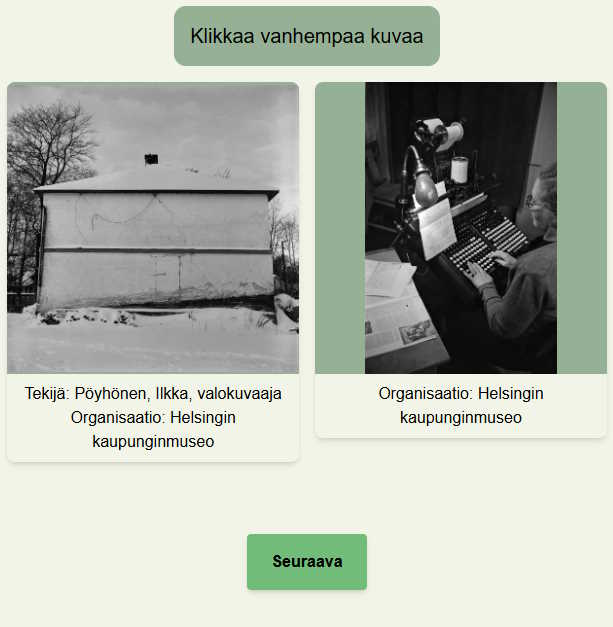
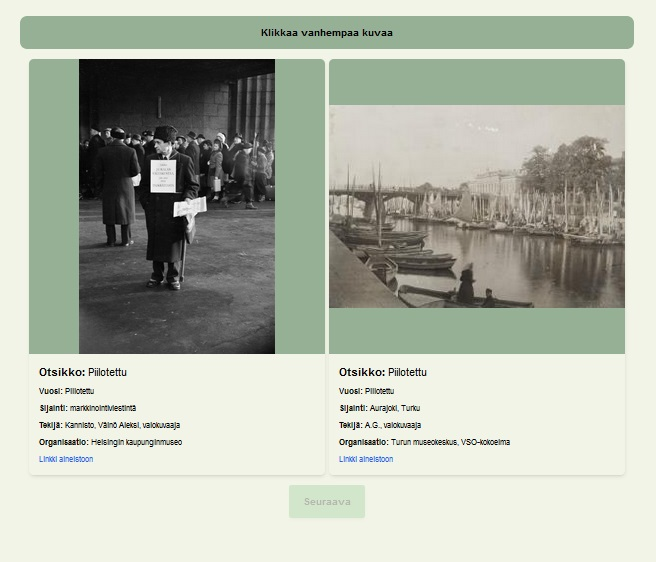
Peli2 refactoring & fixing, closes #102

diff --git a/src/app/pelit/peli2/page.js b/src/app/pelit/peli2/page.js
@@ -1,61 +1,9 @@
 "use client"
 import Start from "@/app/pelit/peli2/Start"
 import PhotoContainer from "@/components/PhotoContainer"
-import PhotoInfo from "@/components/PhotoInfo"
 import Tulokset from "@/components/Results"
 import { getRandomPhoto } from "@/services/photos"
-import { LoaderCircle } from "lucide-react"
 import { useEffect, useState } from "react"
-
-// Loading-componentti, joka näytetään photocontainerin tilalla, jos kuva vielä lataa
-const PhotoContainerSkeleton = ({ styles }) => (
-  <div className="flex-1 border">
-    <div className="m-auto flex w-max border">
-      <div className={styles.neutral}>Vuosi</div>
-    </div>
-    {/* Vastaa default PhotoContaineria: */}
-    <div className="mx-auto w-[95%] max-w-xl overflow-hidden rounded-lg bg-primary shadow-md">
-      <div className="relative w-full bg-tertiary pt-[100%]">
-        <div className="absolute inset-0 flex animate-pulse items-center justify-center rounded">
-          <LoaderCircle className="size-32 animate-spin stroke-primary" />
-        </div>
-      </div>
-      <PhotoInfo loading={true} />
-    </div>
-  </div>
-)
-
-/**
- * Komponentti, joka pitää sisällään vuoden ja PhotoContainerin.
- */
-const ChoosePhotoContainer = ({
-  photo, // Kuva
-  styles, // Object, komponentissa käytetään tyylejä styles.correct, styles.incorrect, styles.neutral
-  // Correct tyyli merkkaa vanhempaa kuvaa, incorrect uudempaa ja neutral sitä että ei ole vastattu
-  answered, // Onko pelaaja vastannut (näytetään vuosi)
-  grayscale, // Halutaanko näyttää kuvat mustavalkoisina ennen vastaamista
-  handleSelectPhoto, // Funktio, jota kutsutaan, kun kuvaa klikataan. Saa parametrina kuvan
-  useLoading = true, // Käytetäänkö loading-spinneriä kun kuva lataa
-}) => (
-  <div className="flex-1 border">
-    <div className="m-auto flex w-max border">
-      {answered ? (
-        <div className={photo.isOlder ? styles.correct : styles.incorrect}>
-          {photo.year}
-        </div>
-      ) : (
-        <div className={styles.neutral}>Vuosi</div>
-      )}
-    </div>
-    <PhotoContainer
-      photo={photo}
-      onClick={handleSelectPhoto ? () => handleSelectPhoto(photo) : null}
-      grayscale={answered ? false : grayscale}
-      useLoading={useLoading}
-      infoProps={{ showYear: answered }}
-    />
-  </div>
-)
 
 /**
  * Peli, jossa pitää arvata kumpi kahdesta kuvasta on vanhempi
@@ -64,8 +12,6 @@ export default function Peli2() {
   const [leftPhoto, setLeftPhoto] = useState(null) // Vasen kuva
   const [rightPhoto, setRightPhoto] = useState(null) // Oikea kuva
   // Loading-muuttujia käytetään loading-spinnerin näyttämisessä, kun kuvaa ladataan
-  const [leftLoading, setLeftLoading] = useState(false) // Onko vasen kuva lataamassa (fetchattu, mutta ei vielä renderöity)
-  const [rightLoading, setRightLoading] = useState(false) // Onko oikea kuva lataamasssa...
   const [preloadedLeft, setPreloadedLeft] = useState(null) // Esiladattu vasen kuva
   const [preloadedRight, setPreloadedRight] = useState(null) // Esiladattu oikea kuva
   const [answered, setAnswered] = useState(false) // Onko pelaaja vastannut
@@ -111,15 +57,12 @@ export default function Peli2() {
   const nextRound = async () => {
     console.log("Current left:", leftPhoto, "right", rightPhoto)
     console.log("nextRound, left:", preloadedLeft, "right", preloadedRight)
-    setLeftPhoto(null) // Alustetaan kuvat null, jotta löydetään virheet helpommin
+    // Laitetaan kuvat nulliksi, jotta ne osataan useEffectissä korvata seuraavilla kuvilla
+    setLeftPhoto(null)
     setRightPhoto(null)
     setAnswered(false) // Alustetaan peli tilaan, jossa pelaaja ei ole vastannut vielä
     setCorrectAnswer(false)
-    // Asetetaan uudet kuvat
     console.log("Asetetaan kuvat:", preloadedLeft, preloadedRight)
-    // Tässä laitetaan kuvat nulliksi, jotta ne osataan useEffectissä korvata seuraavilla kuvilla
-    setLeftPhoto(null)
-    setRightPhoto(null)
   }
 
   /**
@@ -142,9 +85,6 @@ export default function Peli2() {
 
         setLeftPhoto(newLeftPhoto)
         setRightPhoto(newRightPhoto)
-
-        setLeftLoading(true)
-        setRightLoading(true)
 
         setPreloadedLeft(null)
         setPreloadedRight(null)
@@ -242,14 +182,6 @@ export default function Peli2() {
   }
 
   // Tyylit, joilla näytetään onko vastaus oikein (vanhempi kuva).
-  const styles = {
-    correct:
-      "text-center font-bold border-black border-2 rounded-md bg-green-500 px-8 py-4 mb-2 shadow-md",
-    incorrect:
-      "text-center font-bold border-black border-2 rounded-md bg-red-500 px-8 py-4 mb-2 shadow-md",
-    neutral:
-      "text-center font-bold border-black border-2 rounded-md bg-gray-500 px-8 py-4 mb-2 shadow-md",
-  }
 
   // Jos peliä ei ole aloitettu, palautetaan pelin aloitusnäkymä (Start-komponentti)
   if (!started) {
@@ -269,65 +201,43 @@ export default function Peli2() {
     )
   }
 
-  // Jos jompikumpi kuvista ei ole vielä ladannut, palautetaan loading-komponentti (skeleton)
-  if (leftPhoto == null || rightPhoto == null) {
-    return (
-      <div className="flex flex-col items-center px-40">
-        <div className="w-full pb-14">
-          <div className="flex items-center justify-center text-xl">
-            <p className="min-w-full rounded-xl bg-tertiary p-4 text-center">
-              Klikkaa vanhempaa kuvaa
-            </p>
-          </div>
-          <div>
-            <PhotoContainerSkeleton styles={styles} />
-            <PhotoContainerSkeleton styles={styles} />
-          </div>
-        </div>
-        <button className="btn-primary mb-4 p-4 px-6 shadow-md" disabled>
-          Seuraava
-        </button>
-      </div>
-    )
-  }
-
   return (
-    <div className="flex flex-col items-center">
-      <div className="w-full pb-14">
-        <div className="mt-5 flex grow items-center justify-center px-10 text-xl">
-          {!answered && (
-            <p className="min-w-full rounded-xl bg-tertiary p-4 text-center">
-              Klikkaa vanhempaa kuvaa
-            </p>
-          )}
-          {answered && correctAnswer && (
-            <p className="min-w-full rounded-xl bg-accent p-4 text-center">
-              Vastasit oikein!
-            </p>
-          )}
-          {answered && !correctAnswer && (
-            <p className="min-w-full rounded-xl bg-red-400 p-4 text-center">
-              Vastasit väärin!
-            </p>
-          )}
-        </div>
-        <div className="flex flex-wrap justify-center gap-10 p-4">
-          <ChoosePhotoContainer
-            photo={leftPhoto}
-            styles={styles}
-            answered={answered}
-            grayscale={grayscale}
-            handleSelectPhoto={!answered ? handleSelectPhoto : null}
-          />
+    <div className="mx-auto mt-10 flex max-w-screen-lg flex-col items-center">
+      {!answered && (
+        <p className="min-w-full rounded-xl bg-tertiary p-4 text-center font-bold">
+          Klikkaa vanhempaa kuvaa
+        </p>
+      )}
+      {answered && correctAnswer && (
+        <p className="min-w-full rounded-xl bg-accent p-4 text-center font-bold">
+          Vastasit oikein!
+        </p>
+      )}
+      {answered && !correctAnswer && (
+        <p className="min-w-full rounded-xl bg-red-400 p-4 text-center font-bold">
+          Vastasit väärin!
+        </p>
+      )}
+      <div className="mx-auto flex w-full flex-nowrap items-center justify-center gap-2 p-4">
+        <PhotoContainer
+          photo={leftPhoto}
+          onClick={
+            handleSelectPhoto ? () => handleSelectPhoto(leftPhoto) : null
+          }
+          grayscale={answered ? false : grayscale}
+          useLoading={true}
+          infoProps={{ showYear: answered }}
+        />
 
-          <ChoosePhotoContainer
-            photo={rightPhoto}
-            styles={styles}
-            answered={answered}
-            grayscale={grayscale}
-            handleSelectPhoto={!answered ? handleSelectPhoto : null}
-          />
-        </div>
+        <PhotoContainer
+          photo={rightPhoto}
+          onClick={
+            handleSelectPhoto ? () => handleSelectPhoto(rightPhoto) : null
+          }
+          grayscale={answered ? false : grayscale}
+          useLoading={true}
+          infoProps={{ showYear: answered }}
+        />
       </div>
       <button
         className="btn-primary mb-4 p-4 px-6 shadow-md"

diff --git a/src/app/pelit/peli2/Start.js b/src/app/pelit/peli2/Start.js
@@ -16,7 +16,7 @@ export default function Start({ initGameWithParams }) {
 
   return (
     <GameStartMenu
-      name={"Arvaa vanhempi"}
+      name={"Arvaa vanhempi kuva"}
       description={`Tehtävänäsi on valita vanhin kuva kahdesta eri vaihtoehdosta.         
         Halutessasi pelistä voi tehdä haastavamman piilottamalla värit, 
         jolloin kuvat näytetään mustavalkoisina ennen vastausta.`}

diff --git a/src/app/pelit/page.js b/src/app/pelit/page.js
@@ -13,7 +13,7 @@ export default function Pelit() {
         path="/pelit/peli1"
       />
       <GameCard
-        title="Arvaa vanhempi"
+        title="Arvaa vanhempi kuva"
         imageSrc={peli2}
         description="Arvaa kumpi kuvista on vanhempi"
         path="/pelit/peli2"
